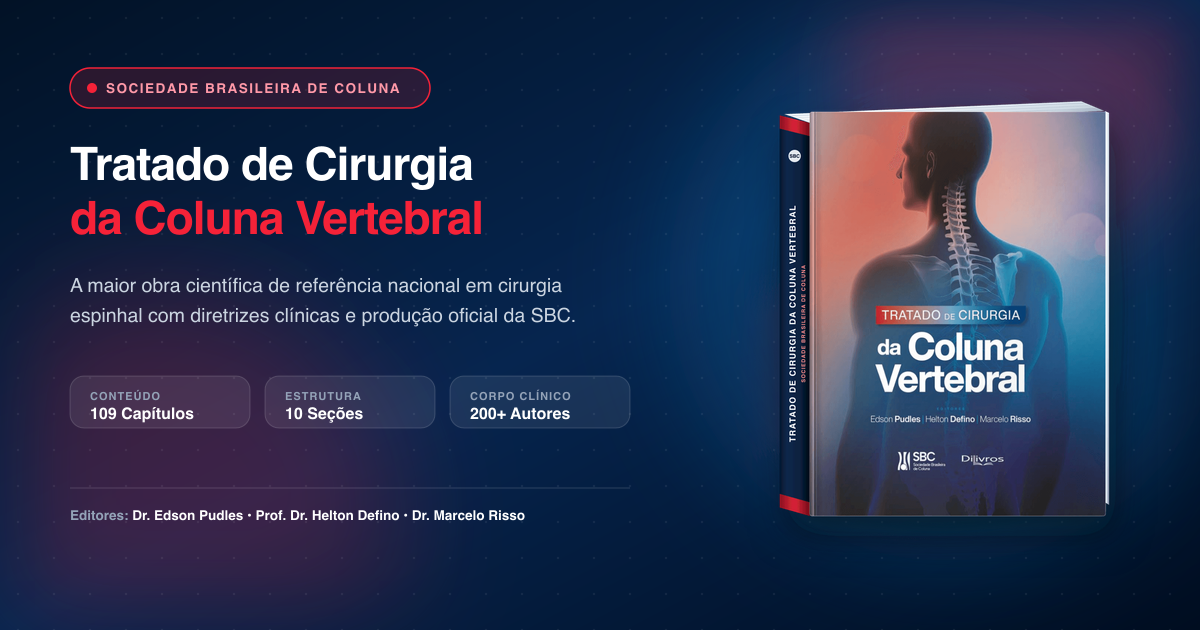
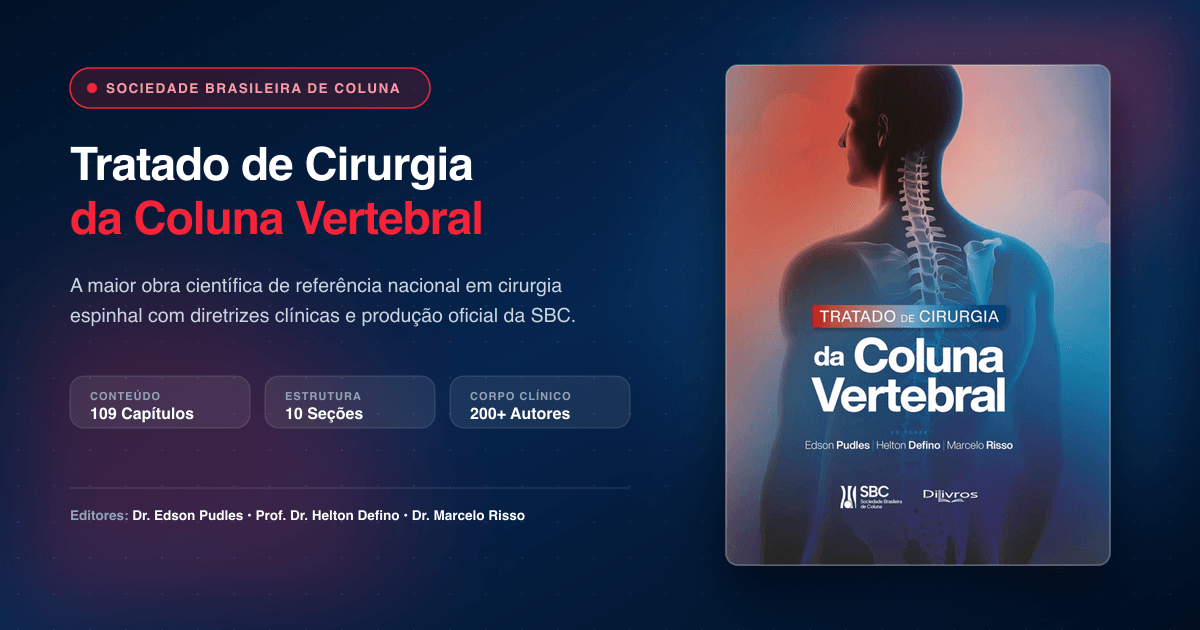
feat: exibir exclusivamente a foto oficial da capa do livro enviada pelo usuario

Changed region(s): [[0.5858, 0.0905, 0.925, 0.9349]]

diff --git a/app/[locale]/page.tsx b/app/[locale]/page.tsx
@@ -127,13 +127,13 @@ export default async function HomePage({ params }: HomePageProps) {
             {/* Top 2-Column Content on Desktop / Clean Stack on Mobile */}
             <div className="grid grid-cols-1 md:grid-cols-12 gap-8 md:gap-14 items-center mb-12">
               
-              {/* Left Column: 3D Book Cover (Aumentado e com nova capa) */}
+              {/* Left Column: Book Cover Photo */}
               <div className="md:col-span-6 lg:col-span-5 flex justify-center md:justify-end">
-                <div className="w-full max-w-[300px] sm:max-w-[380px] md:max-w-[460px] lg:max-w-[520px] transition-transform duration-300 hover:scale-[1.03]">
+                <div className="w-full max-w-[300px] sm:max-w-[380px] md:max-w-[460px] lg:max-w-[500px] transition-transform duration-300 hover:scale-[1.02]">
                   <img
-                    src="/assets/book-cover-3d.png"
+                    src="/assets/book-cover.png"
                     alt="Capa Oficial do Tratado de Cirurgia da Coluna Vertebral"
-                    className="w-full h-auto drop-shadow-[0_28px_50px_rgba(0,0,0,0.7)]"
+                    className="w-full h-auto rounded-xl drop-shadow-[0_25px_50px_rgba(0,0,0,0.65)]"
                   />
                 </div>
               </div>

diff --git a/app/modern.css b/app/modern.css
@@ -332,22 +332,20 @@
   transform: translateY(-2px);
 }
 
-/* 3D Floating Book Visual */
+/* Floating Book Visual */
 .modern-book-stage {
   position: relative;
   display: flex;
   justify-content: center;
   align-items: center;
-  perspective: 1000px;
 }
 
 .modern-book-3d {
   position: relative;
   width: 480px;
   max-width: 92vw;
-  transform: rotateY(-12deg) rotateX(6deg);
-  transition: transform 0.5s cubic-bezier(0.16, 1, 0.3, 1);
-  filter: drop-shadow(-20px 30px 45px rgba(0, 0, 0, 0.55));
+  transition: transform 0.3s ease, filter 0.3s ease;
+  filter: drop-shadow(0 25px 50px rgba(0, 0, 0, 0.65));
 }
 
 @media (min-width: 1400px) {
@@ -357,13 +355,15 @@
 }
 
 .modern-book-stage:hover .modern-book-3d {
-  transform: rotateY(-4deg) rotateX(2deg) scale(1.03);
+  transform: translateY(-6px) scale(1.02);
+  filter: drop-shadow(0 32px 60px rgba(0, 0, 0, 0.75));
 }
 
 .modern-book-3d img {
   width: 100%;
   height: auto;
-  border-radius: 8px;
+  border-radius: 12px;
+  display: block;
 }
 
 .modern-floating-chip {
